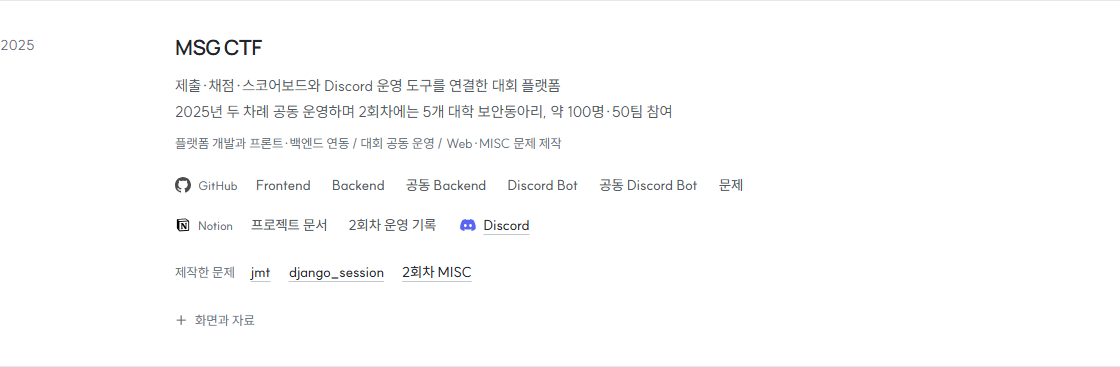
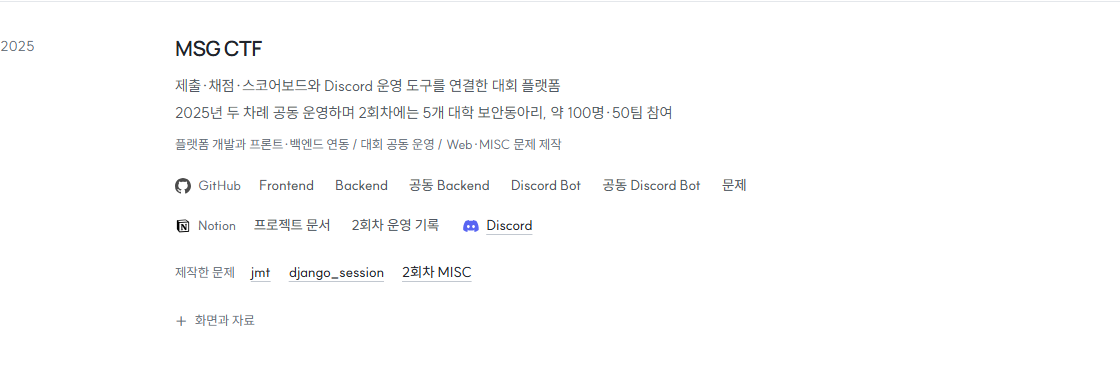
Polish portfolio spacing and version presentation assets

diff --git a/assets/portfolio.css b/assets/portfolio.css
@@ -65,11 +65,11 @@ a, button, summary { -webkit-tap-highlight-color: transparent; }
 .language-switch { gap: 0; padding-left: 22px; border-left: 1px solid var(--line); }
 .language-switch a { display: flex; align-items: center; justify-content: center; min-height: 44px; min-width: 32px; font-size: 12px; text-decoration: none; color: var(--muted); }
 .language-switch [aria-current="page"] { font-weight: 700; color: var(--ink); }
-.hero { display: grid; grid-template-columns: minmax(0, 1fr) 158px; gap: 64px; align-items: center; padding: 80px 0 64px; }
+.hero { display: grid; grid-template-columns: minmax(0, 1fr) 158px; gap: 64px; align-items: center; padding: 64px 0 52px; }
 .hero h1 { font-size: 76px; font-weight: 600; letter-spacing: -.055em; line-height: 1.08; }
 .hero-identity { display: flex; gap: 18px; font-size: 14px; color: var(--secondary); margin-top: 12px; }
 .hero-identity span { color: var(--muted); }
-.hero-role { font-size: 25px; line-height: 1.5; font-weight: 600; letter-spacing: -.018em; margin-top: 32px; }
+.hero-role { font-size: 25px; line-height: 1.5; font-weight: 600; letter-spacing: -.018em; margin-top: 28px; }
 .hero-copy { margin-top: 16px; color: var(--secondary); font-size: 16px; line-height: 1.85; word-break: keep-all; }
 .hero-links { margin-top: 24px; }
 .link-row { display: flex; flex-wrap: wrap; align-items: center; gap: 0 21px; }
@@ -84,24 +84,26 @@ a, button, summary { -webkit-tap-highlight-color: transparent; }
 .hero-links .link-icon { width: 18px; height: 18px; flex-basis: 18px; }
 .link-set, .reference-links { display: flex; flex-wrap: wrap; align-items: center; gap: 0 24px; max-width: 100%; min-width: 0; }
 .repository-links, .service-links { display: flex; align-items: flex-start; gap: 18px; max-width: 100%; min-width: 0; }
-.repository-label, .service-label { display: inline-flex; flex: 0 0 auto; align-items: center; gap: 7px; min-height: 40px; font-size: 12px; font-weight: 500; color: var(--muted); }
+.repository-label, .service-label { display: inline-flex; flex: 0 0 auto; align-items: center; gap: 7px; min-height: 40px; font-size: 13px; font-weight: 500; color: var(--muted); }
 .repository-label .link-icon { opacity: .7; }
 .repository-links > .link-row, .service-links > .link-row { flex: 1; min-width: 0; }
 .hero-links .link-row { column-gap: 28px; }
 .hero-links a { font-size: 15px; min-height: 44px; font-weight: 500; }
+.hero-links a > span, .contact > .link-row a > span { text-decoration: none; }
+.hero-links a:hover > span, .contact > .link-row a:hover > span { text-decoration: underline; text-decoration-color: currentColor; }
 .portrait { align-self: start; margin-top: 8px; }
 .portrait img { width: 158px; height: 197px; object-fit: cover; object-position: center 37%; }
 .eyebrow { font-size: 13px; color: var(--muted); font-variant-numeric: tabular-nums; }
-.highlights { display: grid; grid-template-columns: 1fr 1fr; column-gap: 64px; border-top: 1px solid #adb6c0; border-bottom: 1px solid var(--line); padding: 32px 0; }
+.highlights { display: grid; grid-template-columns: 1fr 1fr; column-gap: 64px; border-top: 1px solid #adb6c0; border-bottom: 1px solid var(--line); padding: 28px 0; }
 .highlights h2 { font-size: 22px; font-weight: 600; letter-spacing: -.025em; line-height: 1.45; margin: 8px 0 12px; }
 .highlights h2 span { font-weight: 400; }
 .highlights article > p:not(.eyebrow) { font-size: 14px; color: var(--secondary); word-break: keep-all; }
 .highlights article > p.highlight-note { color: var(--muted); margin-top: 2px; }
 .highlights .link-row { margin-top: 9px; }
 .highlights .link-row a { font-size: 14px; }
-.section { padding-block: 72px; border-bottom: 1px solid var(--line); }
-.section-heading { margin-bottom: 40px; }
-.section-heading h2 { font-size: 24px; letter-spacing: -.02em; font-weight: 700; }
+.section { padding-block: 56px; border-bottom: 1px solid var(--line); }
+.section-heading { margin-bottom: 32px; }
+.section-heading h2 { font-size: 26px; letter-spacing: -.025em; font-weight: 700; }
 .section-heading > p:empty { display: none; }
 .feature-main, .project-row { display: grid; grid-template-columns: minmax(0, 1fr) minmax(0, 1.12fr); gap: 64px; align-items: center; }
 .project-meta { display: flex; gap: 15px; flex-wrap: wrap; font-size: 13px; color: var(--muted); font-variant-numeric: tabular-nums; }
@@ -118,7 +120,7 @@ a, button, summary { -webkit-tap-highlight-color: transparent; }
 .feature-repositories > p { color: var(--muted); font-size: 13px; }
 .feature-repositories .link-row { column-gap: 24px; }
 .feature-repositories a { font-size: 13px; }
-.project-row { padding-block: 56px; border-top: 1px solid var(--line); }
+.project-row { padding-block: 48px; border-top: 1px solid var(--line); }
 .feature + .project-row { margin-top: 48px; }
 .project-row:last-child { padding-bottom: 0; }
 .project-row .project-film { order: 2; }
@@ -144,7 +146,7 @@ a, button, summary { -webkit-tap-highlight-color: transparent; }
 .text-link { display: inline-flex; align-items: center; min-height: 36px; margin-top: 11px; font-size: 13px; text-decoration-color: #c0c5bb; }
 .workstreams { display: grid; gap: 23px; }
 .workstreams dt { font-size: 16px; font-weight: 600; margin-bottom: 6px; }
-.workstreams dd { color: var(--secondary); font-size: 15px; line-height: 1.8; word-break: keep-all; }
+.workstreams dd { max-width: 74ch; color: var(--secondary); font-size: 15px; line-height: 1.8; word-break: keep-all; }
 .challenge-grid { display: grid; grid-template-columns: 1fr 1fr; gap: 28px; margin-top: 28px; border-top: 1px solid var(--line); padding-top: 24px; }
 .challenge-event { font-size: 13px; color: var(--muted); }
 .challenge-grid h4 { font-size: 17px; font-weight: 600; line-height: 1.5; letter-spacing: -.02em; margin: 7px 0; }
@@ -156,7 +158,7 @@ a, button, summary { -webkit-tap-highlight-color: transparent; }
 .activity-row:last-child { padding-bottom: 0; }
 .activity-heading h3 { font-size: 21px; font-weight: 600; margin: 6px 0 4px; }
 .activity-heading > p:last-child { font-size: 14px; color: var(--secondary); }
-.activity-body > p { font-size: 15px; line-height: 1.8; color: var(--secondary); word-break: keep-all; }
+.activity-body > p { max-width: 74ch; font-size: 15px; line-height: 1.8; color: var(--secondary); word-break: keep-all; }
 .activity-body > p + p { margin-top: 13px; }
 .activity-body .link-row { margin-top: 11px; }
 .activity-body > .link-set { margin-top: 11px; }
@@ -169,6 +171,7 @@ a, button, summary { -webkit-tap-highlight-color: transparent; }
 .authored-links .link-row { margin-top: 0; column-gap: 18px; }
 .authored-links .link-row a { font-size: 14px; }
 .archive-row { display: grid; grid-template-columns: 145px minmax(0, 1fr); gap: 30px; padding: 28px 0; border-top: 1px solid var(--line); }
+.section-heading + .archive-row { padding-top: 0; border-top: 0; }
 .archive-row:last-child { padding-bottom: 0; }
 .archive-year { font-size: 14px; color: var(--muted); padding-top: 4px; font-variant-numeric: tabular-nums; }
 .archive-copy h3 { font-size: 21px; font-weight: 600; letter-spacing: -.02em; }
@@ -202,13 +205,14 @@ a, button, summary { -webkit-tap-highlight-color: transparent; }
 .toolkit dt { font-size: 14px; font-weight: 600; margin-bottom: 5px; }
 .toolkit dd { font-size: 15px; color: var(--secondary); line-height: 1.8; }
 .military-service { display: grid; grid-template-columns: 265px minmax(0, 1fr); gap: 55px; padding-block: 42px; }
-.military-heading h2 { font-size: 24px; font-weight: 700; letter-spacing: -.02em; }
+.military-heading h2 { font-size: 26px; font-weight: 700; letter-spacing: -.025em; }
 .military-heading .project-meta { margin-top: 10px; }
 .military-body h3 { font-size: 21px; font-weight: 600; letter-spacing: -.02em; }
-.military-body > p { margin-top: 12px; font-size: 15px; line-height: 1.8; color: var(--secondary); word-break: keep-all; }
+.military-body > p { max-width: 74ch; margin-top: 12px; font-size: 15px; line-height: 1.8; color: var(--secondary); word-break: keep-all; }
 .military-body > .military-role { margin-top: 4px; font-size: 14px; color: var(--muted); }
 .military-body .link-row { margin-top: 11px; }
 .contact { display: flex; justify-content: space-between; align-items: center; gap: 25px; padding: 42px 0; border-bottom: 1px solid var(--line); }
+.contact > .link-row { column-gap: 24px; }
 .contact h2 { font-size: 14px; font-weight: 400; color: var(--muted); margin-bottom: 9px; }
 .contact-email { font-family: var(--font-display); font-size: 30px; line-height: 1.4; letter-spacing: -.025em; text-decoration: none; }
 .contact-email:hover { text-decoration: underline; }
@@ -243,8 +247,8 @@ a, button, summary { -webkit-tap-highlight-color: transparent; }
   .highlights { gap: 25px; }
   .highlights h2 { font-size: 20px; }
   .highlights h2 span { display: block; }
-  .section { padding-block: 42px; }
-  .section-heading { margin-bottom: 28px; }
+  .section { padding-block: 36px; }
+  .section-heading { margin-bottom: 24px; }
   .section-heading h2 { font-size: 23px; }
   .feature-main, .project-row { grid-template-columns: 1fr; gap: 26px; }
   .feature h3 br { display: none; }

diff --git a/index_ko.html b/index_ko.html
@@ -21,10 +21,10 @@
   <link rel="icon" href="assets/favicon.svg" type="image/svg+xml">
   <link rel="preload" href="assets/fonts/SUIT-Variable.woff2" as="font" type="font/woff2" crossorigin>
   <link rel="preload" href="assets/fonts/Manrope-Latin-Variable.woff2" as="font" type="font/woff2" crossorigin>
-  <link rel="stylesheet" href="assets/portfolio.css">
-  <link rel="stylesheet" href="assets/portfolio-motion.css">
-  <link rel="stylesheet" href="assets/portfolio-platform.css">
-  <script src="assets/portfolio-motion.js" defer></script>
+  <link rel="stylesheet" href="assets/portfolio.css?v=08ca866d40">
+  <link rel="stylesheet" href="assets/portfolio-motion.css?v=6b5741100b">
+  <link rel="stylesheet" href="assets/portfolio-platform.css?v=977d9ee5e8">
+  <script src="assets/portfolio-motion.js?v=1c24c998a8" defer></script>
 </head>
 <body id="top">
   <a class="skip-link" href="#main">본문으로 바로 가기</a>

diff --git a/index.html b/index.html
@@ -21,10 +21,10 @@
   <link rel="icon" href="assets/favicon.svg" type="image/svg+xml">
   <link rel="preload" href="assets/fonts/SUIT-Variable.woff2" as="font" type="font/woff2" crossorigin>
   <link rel="preload" href="assets/fonts/Manrope-Latin-Variable.woff2" as="font" type="font/woff2" crossorigin>
-  <link rel="stylesheet" href="assets/portfolio.css">
-  <link rel="stylesheet" href="assets/portfolio-motion.css">
-  <link rel="stylesheet" href="assets/portfolio-platform.css">
-  <script src="assets/portfolio-motion.js" defer></script>
+  <link rel="stylesheet" href="assets/portfolio.css?v=08ca866d40">
+  <link rel="stylesheet" href="assets/portfolio-motion.css?v=6b5741100b">
+  <link rel="stylesheet" href="assets/portfolio-platform.css?v=977d9ee5e8">
+  <script src="assets/portfolio-motion.js?v=1c24c998a8" defer></script>
 </head>
 <body id="top">
   <a class="skip-link" href="#main">Skip to content</a>

diff --git a/docs/validation.md b/docs/validation.md
@@ -2,6 +2,19 @@
 
 28 September 2026 / Local Chromium through Playwright CLI / Python static HTTP server on loopback
 
+## Final spacing and link finish / 29 September 2026
+
+- Both languages checked at 320, 390, 768, 1024 and 1440 pixels after the spacing and heading changes
+- No horizontal page or visible text overflow, missing images, broken anchors, duplicate IDs or browser console errors in the ten checked layouts
+- ENKI remains the only professional experience entry, INC0GNITO and MJSEC remain under Activities, and Military service follows Background
+- Section targets clear the sticky header and the local SUIT and Manrope fonts load successfully
+- Profile and contact actions remain aligned on mobile, with a visible two-pixel keyboard focus outline on the contact links
+- Versioned stylesheet and script URLs load the revised styles without a cache-bypass browser setting
+- Every link destination present before this design pass is retained, with matching destination sets in both languages
+- Desktop and mobile profile captures, the career and activities view, and the archive repository-link view updated after visual review
+
+The pass changes layout and asset URLs only, leaving the content and project-animation timelines intact
+
 ## Career and activities / 29 September 2026
 
 - Separate Experience and Activities sections checked in both languages at 320, 390, 768, 1024 and 1440 pixels

diff --git a/docs/content-notes.md b/docs/content-notes.md
@@ -72,6 +72,9 @@ Content and navigation require no JavaScript, external font service, external im
 An optional local script controls four short project previews with explicit pause/replay controls
 SUIT handles the Korean text and body copy, while Manrope handles the nickname, Latin headings and selected illustration labels
 Shared type weights, restrained tracking, consistent alignment and lighter preview borders provide the visual hierarchy
+The final layout pass tightens section and project spacing, strengthens section headings and limits long role descriptions to a readable measure
+Profile and contact links retain their service marks and labels, with underlines appearing on hover and a visible keyboard focus outline
+Versioned presentation-asset URLs prevent an older cached stylesheet from masking these updates
 
 All four animations are conceptual illustrations of documented architecture and research scope
 They do not claim to be live production telemetry or recordings of an operational system

diff --git a/README.md b/README.md
@@ -34,6 +34,8 @@ Open `http://127.0.0.1:8000/` or `http://127.0.0.1:8000/index_ko.html`
 | `docs/content-notes.md` | Content sources and editorial decisions |
 
 Update both language pages together and preserve the same links in each
+The presentation stylesheets and script use version query strings so returning visitors receive the updated assets
+When changing those files, update their `?v=` values in both HTML heads together
 
 - Keep the personal contribution clear and link to supporting work
 - Keep repository, website and documentation links visible without expanding a disclosure
